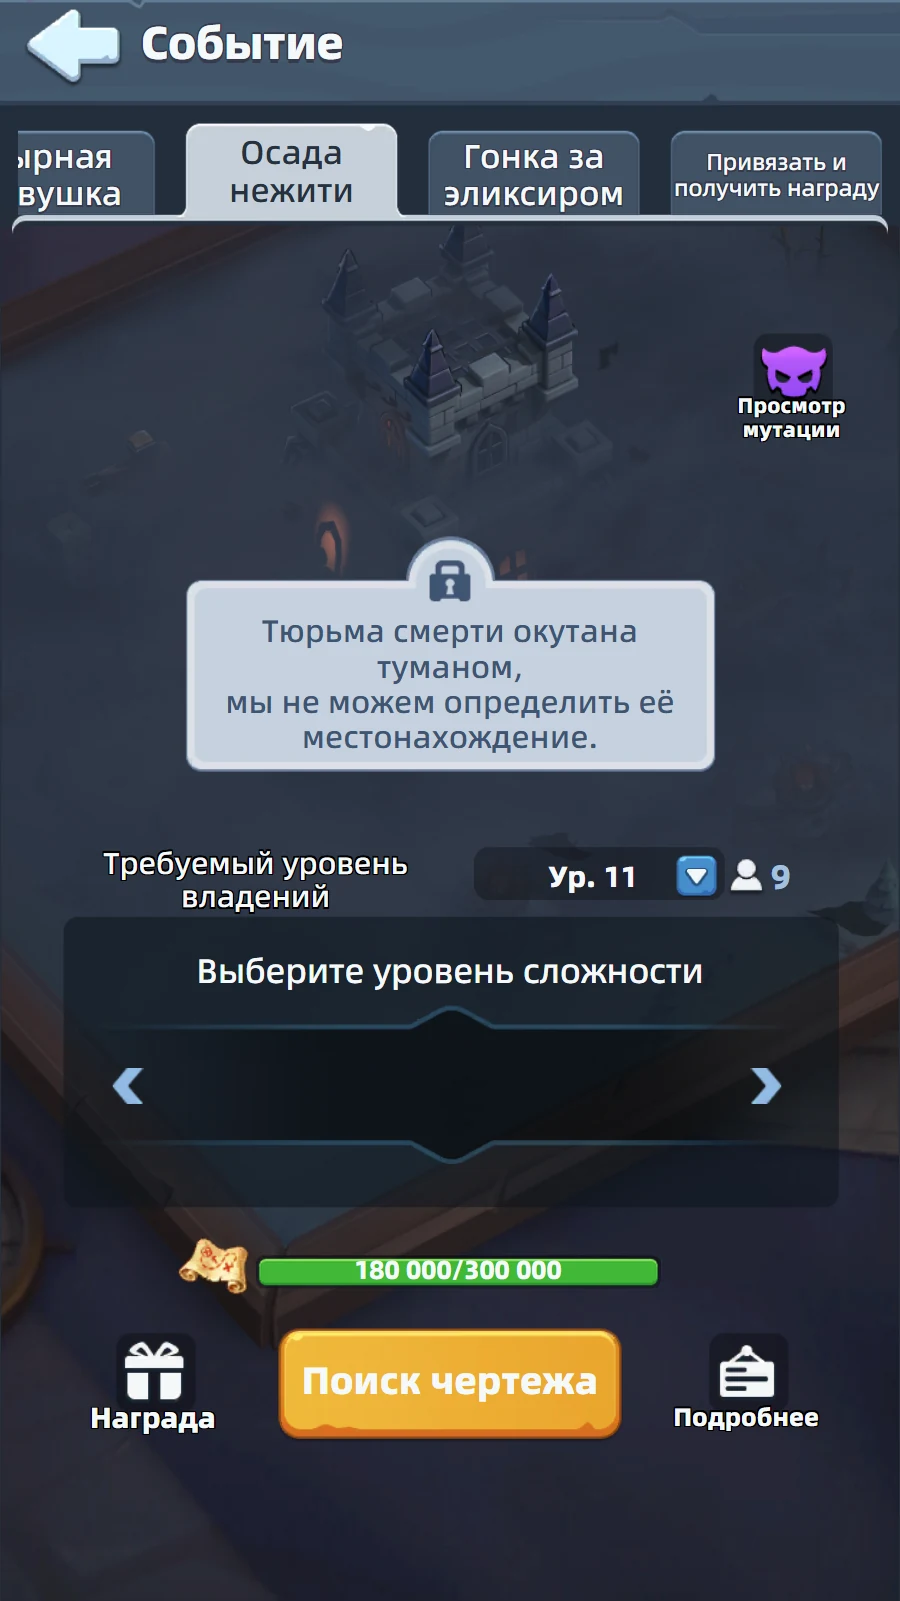
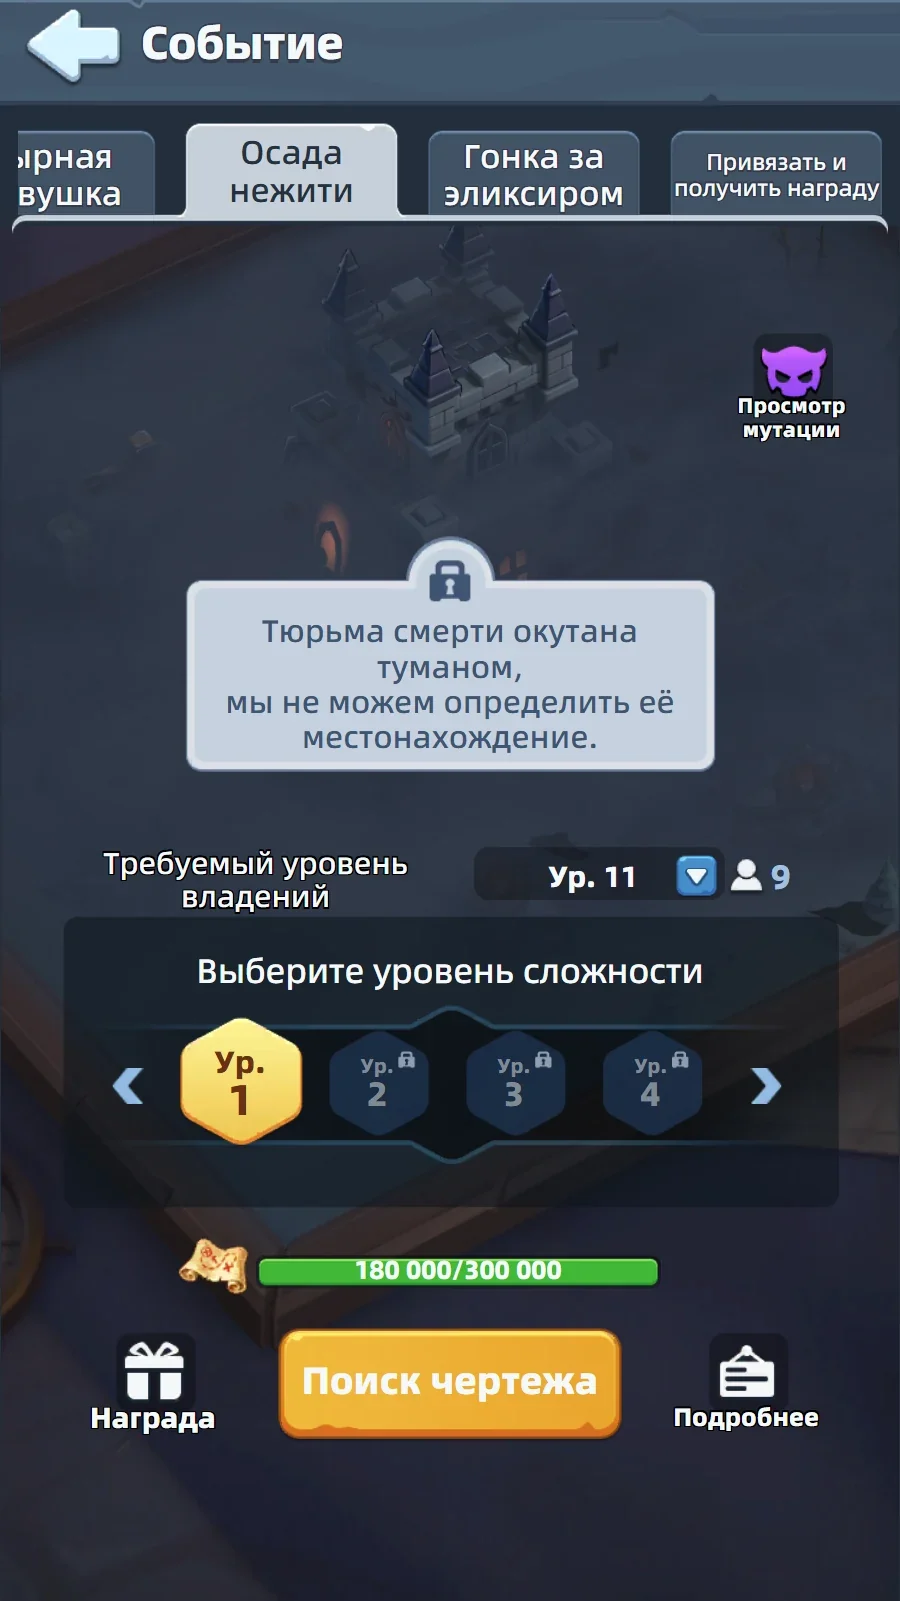
Осада нежити: плитки уровней сложности как в игре; Охотничий бой: убрана заготовка «?» вместо наград

Changed region(s): [[0.1867, 0.6246, 0.7778, 0.7183]]

diff --git a/events.html b/events.html
@@ -279,7 +279,7 @@
     <div class="step" style="--shot-h:280px"><div class="shot"><img src="assets/shots/step-special.webp" alt="Главный экран: справа значок «Особое событие»" loading="lazy"><span class="ring rect" style="left:89.8%;top:39.8%;width:17.5%;aspect-ratio:1"></span><span class="arrow" style="left:72%;top:39.8%;--rot:0deg"></span></div>
       <div class="body"><div class="num">ШАГ 1</div><h3>Значок «Особое событие»</h3><p>Справа на главном экране, в столбике круглых значков — второй сверху (с галочкой на планшете). Откроется окно «Событие» с вкладками сверху.</p></div></div>
     <div class="step" style="--shot-h:430px"><div class="shot"><img src="assets/shots/ev-hunt.webp" alt="Окно события «Охотничий бой»" loading="lazy"><span class="ring rect" style="left:32.4%;top:10.7%;width:26.1%;aspect-ratio:2.45"></span><span class="arrow" style="left:32.4%;top:20%;--rot:-90deg"></span><span class="ring rect" style="left:50.1%;top:93.2%;width:38.1%;aspect-ratio:3.11"></span></div>
-      <div class="body"><div class="num">ШАГ 2</div><h3>Вкладка «Охотничий бой»</h3><p>Пока R4/R5 не начали, в окне написано «Ожидается начало R4/R5». Лидер жмёт <b>«Выберите сложность»</b> — внизу посередине, выбирает уровень, и бой стартует. Над кнопкой — «Обзор награды».</p></div></div>
+      <div class="body"><div class="num">ШАГ 2</div><h3>Вкладка «Охотничий бой»</h3><p>Пока R4/R5 не начали, в окне написано «Ожидается начало R4/R5». Лидер жмёт <b>«Выберите сложность»</b> — внизу посередине, выбирает уровень, и бой стартует. Награды за выбранную сложность — кнопка «Награда» справа вверху.</p></div></div>
   </div>
 
   <div class="block"><h3>Как идёт бой</h3>
@@ -295,7 +295,7 @@
     <div class="step" style="--shot-h:280px"><div class="shot"><img src="assets/shots/step-special.webp" alt="Главный экран: справа значок «Особое событие»" loading="lazy"><span class="ring rect" style="left:89.8%;top:39.8%;width:17.5%;aspect-ratio:1"></span><span class="arrow" style="left:72%;top:39.8%;--rot:0deg"></span></div>
       <div class="body"><div class="num">ШАГ 1</div><h3>Значок «Особое событие»</h3><p>Справа на главном экране, в столбике круглых значков — второй сверху (с галочкой на планшете). Откроется окно «Событие» с вкладками сверху.</p></div></div>
     <div class="step" style="--shot-h:430px"><div class="shot"><img src="assets/shots/ev-siege.webp" alt="Окно события «Осада нежити»" loading="lazy"><span class="ring rect" style="left:32.4%;top:10.7%;width:26.1%;aspect-ratio:2.45"></span><span class="arrow" style="left:32.4%;top:20%;--rot:-90deg"></span></div>
-      <div class="body"><div class="num">ШАГ 2</div><h3>Вкладка «Осада нежити»</h3><p>Пока тюрьма не найдена, в окне написано «Тюрьма смерти окутана туманом». Ниже — «Требуемый уровень владений», выбор сложности и полоса улик (сколько собрано из нужных). Внизу: «Награда», жёлтая кнопка и «Подробнее».</p></div></div>
+      <div class="body"><div class="num">ШАГ 2</div><h3>Вкладка «Осада нежити»</h3><p>Пока тюрьма не найдена, в окне написано «Тюрьма смерти окутана туманом». Ниже — «Требуемый уровень владений» и выбор сложности: золотой шестиугольник — выбранный уровень, с замком — ещё закрытые (открываются, когда 20 участников альянса отобьют все волны предыдущего уровня). Ещё ниже полоса чертежа (сколько собрано из нужных). Внизу: «Награда», жёлтая кнопка «Поиск чертежа» и «Подробнее».</p></div></div>
   </div>
 
   <div class="block"><h3>Как это устроено</h3>

diff --git a/src/events.html b/src/events.html
@@ -244,7 +244,7 @@
     <div class="step" style="--shot-h:280px"><div class="shot"><img src="assets/shots/step-special.webp" alt="Главный экран: справа значок «Особое событие»" loading="lazy"><span class="ring rect" style="left:89.8%;top:39.8%;width:17.5%;aspect-ratio:1"></span><span class="arrow" style="left:72%;top:39.8%;--rot:0deg"></span></div>
       <div class="body"><div class="num">ШАГ 1</div><h3>Значок «Особое событие»</h3><p>Справа на главном экране, в столбике круглых значков — второй сверху (с галочкой на планшете). Откроется окно «Событие» с вкладками сверху.</p></div></div>
     <div class="step" style="--shot-h:430px"><div class="shot"><img src="assets/shots/ev-hunt.webp" alt="Окно события «Охотничий бой»" loading="lazy"><span class="ring rect" style="left:32.4%;top:10.7%;width:26.1%;aspect-ratio:2.45"></span><span class="arrow" style="left:32.4%;top:20%;--rot:-90deg"></span><span class="ring rect" style="left:50.1%;top:93.2%;width:38.1%;aspect-ratio:3.11"></span></div>
-      <div class="body"><div class="num">ШАГ 2</div><h3>Вкладка «Охотничий бой»</h3><p>Пока R4/R5 не начали, в окне написано «Ожидается начало R4/R5». Лидер жмёт <b>«Выберите сложность»</b> — внизу посередине, выбирает уровень, и бой стартует. Над кнопкой — «Обзор награды».</p></div></div>
+      <div class="body"><div class="num">ШАГ 2</div><h3>Вкладка «Охотничий бой»</h3><p>Пока R4/R5 не начали, в окне написано «Ожидается начало R4/R5». Лидер жмёт <b>«Выберите сложность»</b> — внизу посередине, выбирает уровень, и бой стартует. Награды за выбранную сложность — кнопка «Награда» справа вверху.</p></div></div>
   </div>
 
   <div class="block"><h3>Как идёт бой</h3>
@@ -260,7 +260,7 @@
     <div class="step" style="--shot-h:280px"><div class="shot"><img src="assets/shots/step-special.webp" alt="Главный экран: справа значок «Особое событие»" loading="lazy"><span class="ring rect" style="left:89.8%;top:39.8%;width:17.5%;aspect-ratio:1"></span><span class="arrow" style="left:72%;top:39.8%;--rot:0deg"></span></div>
       <div class="body"><div class="num">ШАГ 1</div><h3>Значок «Особое событие»</h3><p>Справа на главном экране, в столбике круглых значков — второй сверху (с галочкой на планшете). Откроется окно «Событие» с вкладками сверху.</p></div></div>
     <div class="step" style="--shot-h:430px"><div class="shot"><img src="assets/shots/ev-siege.webp" alt="Окно события «Осада нежити»" loading="lazy"><span class="ring rect" style="left:32.4%;top:10.7%;width:26.1%;aspect-ratio:2.45"></span><span class="arrow" style="left:32.4%;top:20%;--rot:-90deg"></span></div>
-      <div class="body"><div class="num">ШАГ 2</div><h3>Вкладка «Осада нежити»</h3><p>Пока тюрьма не найдена, в окне написано «Тюрьма смерти окутана туманом». Ниже — «Требуемый уровень владений», выбор сложности и полоса улик (сколько собрано из нужных). Внизу: «Награда», жёлтая кнопка и «Подробнее».</p></div></div>
+      <div class="body"><div class="num">ШАГ 2</div><h3>Вкладка «Осада нежити»</h3><p>Пока тюрьма не найдена, в окне написано «Тюрьма смерти окутана туманом». Ниже — «Требуемый уровень владений» и выбор сложности: золотой шестиугольник — выбранный уровень, с замком — ещё закрытые (открываются, когда 20 участников альянса отобьют все волны предыдущего уровня). Ещё ниже полоса чертежа (сколько собрано из нужных). Внизу: «Награда», жёлтая кнопка «Поиск чертежа» и «Подробнее».</p></div></div>
   </div>
 
   <div class="block"><h3>Как это устроено</h3>
